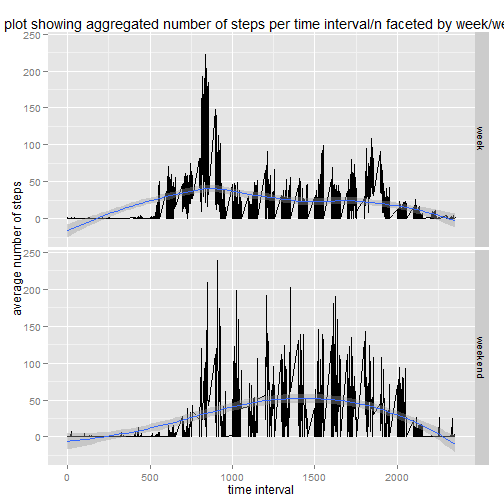
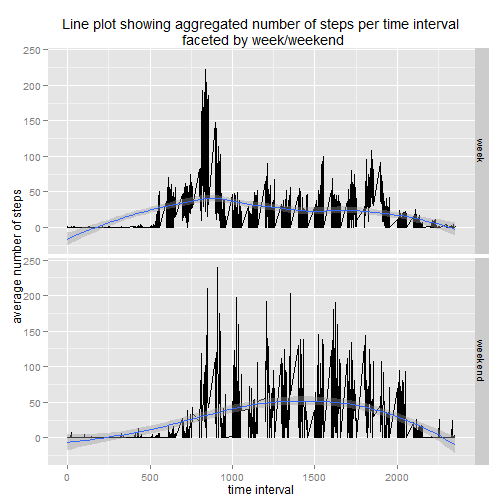
Updated graph title. Although source tree doesn't show the folder structure it pushes the folder structure anyway.

diff --git a/PA1_template.html b/PA1_template.html
@@ -398,14 +398,14 @@ interval.week &lt;- melt(interval.week, measure.vars =c(&quot;Mean&quot;, &quot;
 </code></pre>
 
 <pre><code class="r">#Create faceted time series graph showing the difference between behaviour at the week and weekend 
-ggplot(interval.week, aes(x=Interval, y=Steps)) + geom_line() + facet_grid(Week~.)+geom_smooth()+ggtitle(&quot;Line plot showing aggregated number of steps per time interval/n faceted by week/weekend&quot;)+xlab(&quot;time interval&quot;) + ylab(&quot;average number of steps&quot;)
+ggplot(interval.week, aes(x=Interval, y=Steps)) + geom_line() + facet_grid(Week~.)+geom_smooth()+ggtitle(&quot;Line plot showing aggregated number of steps per time interval\n faceted by week/weekend&quot;)+xlab(&quot;time interval&quot;) + ylab(&quot;average number of steps&quot;)
 </code></pre>
 
 <pre><code>## geom_smooth: method=&quot;auto&quot; and size of largest group is &lt;1000, so using loess. Use &#39;method = x&#39; to change the smoothing method.
 ## geom_smooth: method=&quot;auto&quot; and size of largest group is &lt;1000, so using loess. Use &#39;method = x&#39; to change the smoothing method.
 </code></pre>
 
[2 lines of base64/hex data omitted]
 
 <p>When comparing week to weenend walking patterns we see that the number of steps per time interval peaks in the morning during rush hour and is lower during the middle of the day when everybody is a work, this contrasts with the weekend pattern that starts later is more evenly spread out through the day with more of a peak at the end of the day.
 The graph shows that the steps are more evenly spread out during the weekends with a peak coming</p>

diff --git a/PA1_template.md b/PA1_template.md
@@ -259,7 +259,7 @@ interval.week <- melt(interval.week, measure.vars =c("Mean", "Median"), variable
 
 ```r
 #Create faceted time series graph showing the difference between behaviour at the week and weekend 
-ggplot(interval.week, aes(x=Interval, y=Steps)) + geom_line() + facet_grid(Week~.)+geom_smooth()+ggtitle("Line plot showing aggregated number of steps per time interval/n faceted by week/weekend")+xlab("time interval") + ylab("average number of steps")
+ggplot(interval.week, aes(x=Interval, y=Steps)) + geom_line() + facet_grid(Week~.)+geom_smooth()+ggtitle("Line plot showing aggregated number of steps per time interval\n faceted by week/weekend")+xlab("time interval") + ylab("average number of steps")
 ```
 
 ```
